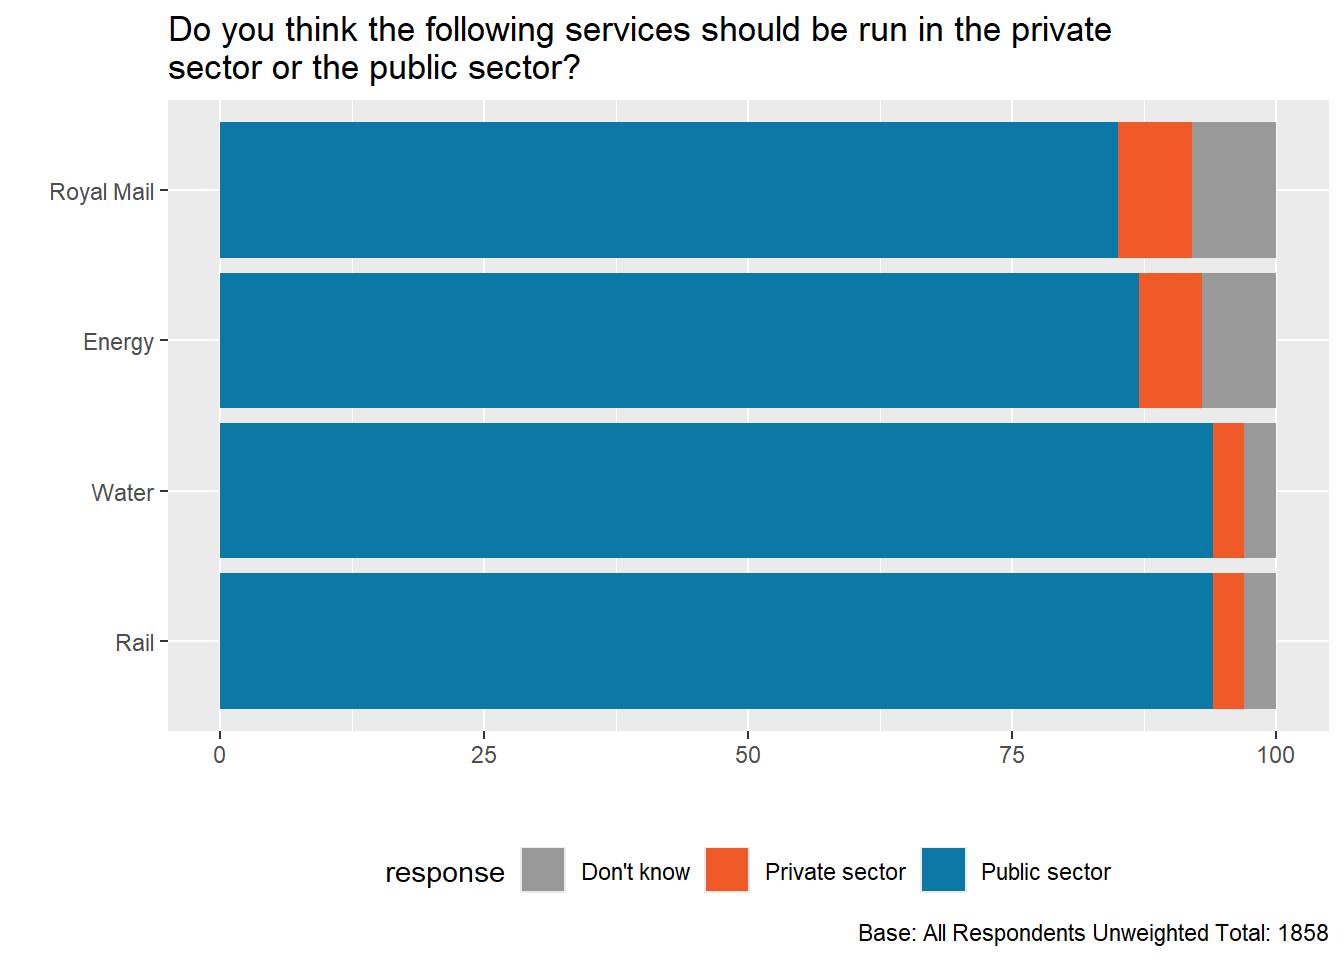
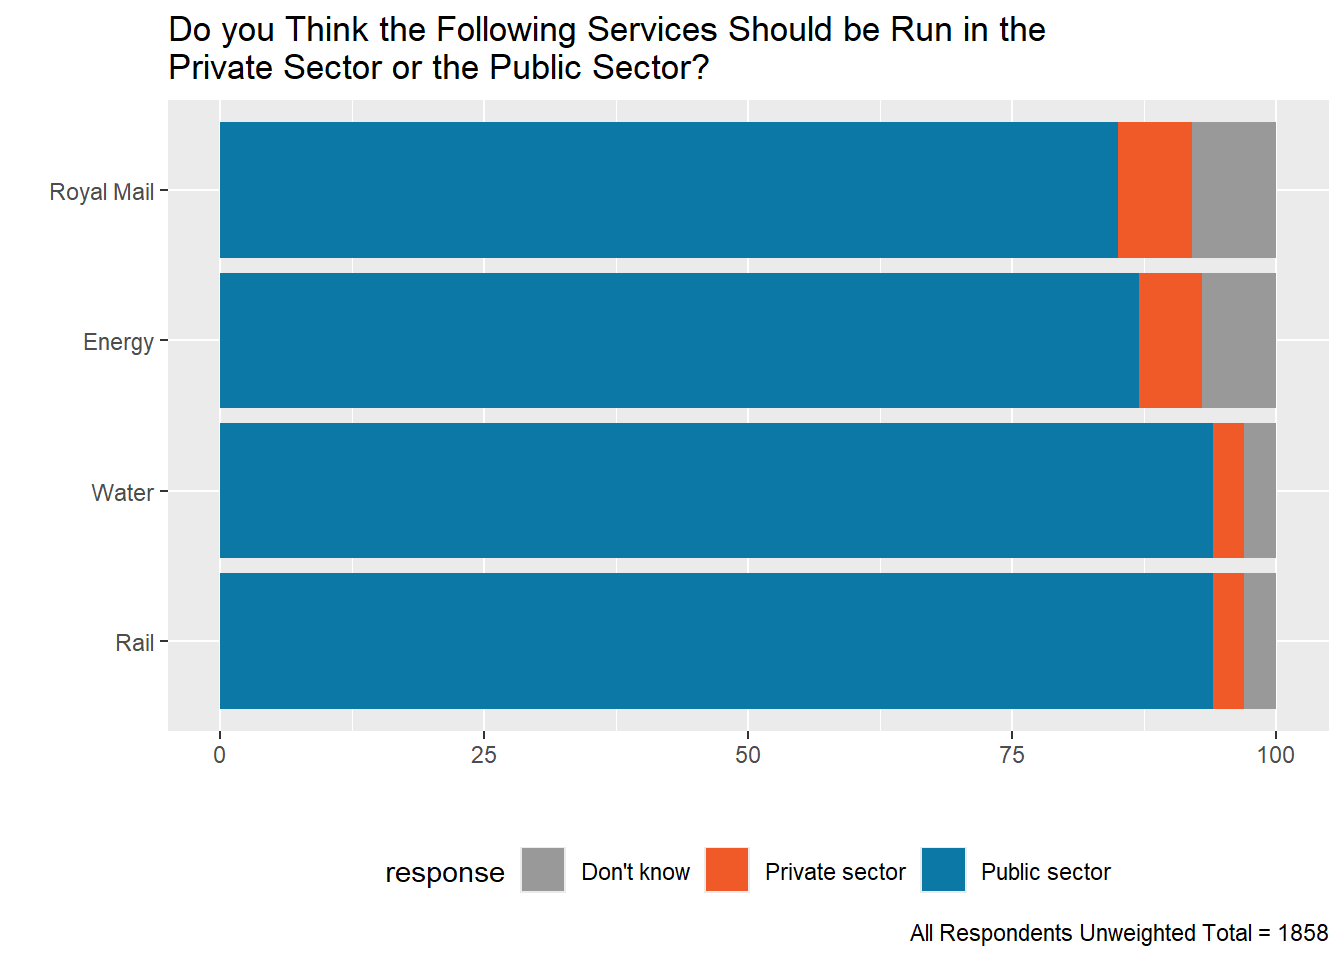
Completed Part 3

Changed region(s): [[0.125, 0.0, 0.8438, 0.0938], [0.625, 0.9375, 0.9375, 1.0]]

diff --git a/lab-4.html b/lab-4.html
@@ -293,16 +293,12 @@ Tip
 <p>How does the improved visualization look different than the original? Does it send a different message at a first glance?</p>
 <div class="cell">
 <div class="sourceCode cell-code" id="cb9"><pre class="sourceCode r code-with-copy"><code class="sourceCode r"><span id="cb9-1"><a href="#cb9-1" aria-hidden="true" tabindex="-1"></a>survation_pct <span class="sc">|&gt;</span> <span class="fu">mutate</span>(<span class="at">service =</span> <span class="fu">factor</span>(service, <span class="at">levels =</span> <span class="fu">c</span>(<span class="st">"Rail"</span>, <span class="st">"Water"</span>, <span class="st">"Energy"</span>, <span class="st">"Royal Mail"</span>))) <span class="sc">|&gt;</span> <span class="fu">ggplot</span>(<span class="fu">aes</span>(percent, service, <span class="at">fill =</span> response ))<span class="sc">+</span> <span class="fu">geom_col</span>() <span class="sc">+</span></span>
-<span id="cb9-2"><a href="#cb9-2" aria-hidden="true" tabindex="-1"></a><span class="fu">scale_fill_manual</span>(<span class="at">values =</span> <span class="fu">c</span>(<span class="st">"Public sector"</span> <span class="ot">=</span> <span class="st">"#0B78A5"</span>,</span>
-<span id="cb9-3"><a href="#cb9-3" aria-hidden="true" tabindex="-1"></a>      <span class="st">"Private sector"</span> <span class="ot">=</span> <span class="st">"#F05A28"</span>,</span>
-<span id="cb9-4"><a href="#cb9-4" aria-hidden="true" tabindex="-1"></a>      <span class="st">"Don't know"</span> <span class="ot">=</span> <span class="st">"gray60"</span>))<span class="sc">+</span></span>
-<span id="cb9-5"><a href="#cb9-5" aria-hidden="true" tabindex="-1"></a>  <span class="fu">theme</span>(</span>
-<span id="cb9-6"><a href="#cb9-6" aria-hidden="true" tabindex="-1"></a>    <span class="at">legend.position =</span> <span class="st">"bottom"</span>)<span class="sc">+</span></span>
-<span id="cb9-7"><a href="#cb9-7" aria-hidden="true" tabindex="-1"></a>  <span class="fu">labs</span>(</span>
-<span id="cb9-8"><a href="#cb9-8" aria-hidden="true" tabindex="-1"></a>    <span class="at">title =</span> <span class="st">"Do you think the following services should be run in the private</span><span class="sc">\n</span><span class="st">sector or the public sector?"</span>,</span>
-<span id="cb9-9"><a href="#cb9-9" aria-hidden="true" tabindex="-1"></a>    <span class="at">caption =</span> <span class="st">"Base: All Respondents Unweighted Total: 1858"</span>,</span>
-<span id="cb9-10"><a href="#cb9-10" aria-hidden="true" tabindex="-1"></a>  <span class="at">x =</span> <span class="st">""</span>,</span>
-<span id="cb9-11"><a href="#cb9-11" aria-hidden="true" tabindex="-1"></a>  <span class="at">y=</span> <span class="st">""</span>)</span></code><button title="Copy to Clipboard" class="code-copy-button"><i class="bi"></i></button></pre></div>
+<span id="cb9-2"><a href="#cb9-2" aria-hidden="true" tabindex="-1"></a><span class="fu">scale_fill_manual</span>(<span class="at">values =</span> <span class="fu">c</span>(<span class="st">"Public sector"</span> <span class="ot">=</span> <span class="st">"#0B78A5"</span>, <span class="st">"Private sector"</span> <span class="ot">=</span> <span class="st">"#F05A28"</span>, <span class="st">"Don't know"</span> <span class="ot">=</span> <span class="st">"gray60"</span>))<span class="sc">+</span></span>
+<span id="cb9-3"><a href="#cb9-3" aria-hidden="true" tabindex="-1"></a><span class="fu">theme</span>(<span class="at">legend.position =</span> <span class="st">"bottom"</span>)<span class="sc">+</span></span>
+<span id="cb9-4"><a href="#cb9-4" aria-hidden="true" tabindex="-1"></a><span class="fu">labs</span>(<span class="at">title =</span> <span class="st">"Do you Think the Following Services Should be Run in the </span><span class="sc">\n</span><span class="st">Private Sector or the Public Sector?"</span>,</span>
+<span id="cb9-5"><a href="#cb9-5" aria-hidden="true" tabindex="-1"></a><span class="at">caption =</span> <span class="st">"All Respondents Unweighted Total = 1858"</span>,</span>
+<span id="cb9-6"><a href="#cb9-6" aria-hidden="true" tabindex="-1"></a>  <span class="at">x =</span> <span class="st">""</span>,</span>
+<span id="cb9-7"><a href="#cb9-7" aria-hidden="true" tabindex="-1"></a>  <span class="at">y=</span> <span class="st">""</span>)</span></code><button title="Copy to Clipboard" class="code-copy-button"><i class="bi"></i></button></pre></div>
 <div class="cell-output-display">
 <div>
 <figure class="figure">
@@ -360,7 +356,8 @@ Note
 </div>
 <p>Here is a peek at the top 10 rows of the dataset:</p>
 <div class="cell">
-<div class="sourceCode cell-code" id="cb10"><pre class="sourceCode r code-with-copy"><code class="sourceCode r"><span id="cb10-1"><a href="#cb10-1" aria-hidden="true" tabindex="-1"></a>datasaurus_dozen</span></code><button title="Copy to Clipboard" class="code-copy-button"><i class="bi"></i></button></pre></div>
+<div class="sourceCode cell-code" id="cb10"><pre class="sourceCode r code-with-copy"><code class="sourceCode r"><span id="cb10-1"><a href="#cb10-1" aria-hidden="true" tabindex="-1"></a>datasaurus_dozen <span class="ot">=</span> datasaurus_dozen</span>
+<span id="cb10-2"><a href="#cb10-2" aria-hidden="true" tabindex="-1"></a>datasaurus_dozen</span></code><button title="Copy to Clipboard" class="code-copy-button"><i class="bi"></i></button></pre></div>
 <div class="cell-output cell-output-stdout">
 <pre><code># A tibble: 1,846 × 3
    dataset     x     y
@@ -394,10 +391,46 @@ Tip
 <p>There are 13 groups but <code>tibble</code>s only print out 10 rows by default. Add <code>print(n = 13)</code> as the last step of your pipeline to display all rows.</p>
 </div>
 </div>
+<div class="cell">
+<div class="sourceCode cell-code" id="cb12"><pre class="sourceCode r code-with-copy"><code class="sourceCode r"><span id="cb12-1"><a href="#cb12-1" aria-hidden="true" tabindex="-1"></a>datasaurus_dozen <span class="sc">|&gt;</span> <span class="fu">group_by</span>(dataset) <span class="sc">|&gt;</span> <span class="fu">summarise</span>(<span class="at">mean_x =</span> <span class="fu">mean</span>(x), <span class="at">mean_y =</span> <span class="fu">mean</span>(y), <span class="at">std_x =</span> <span class="fu">sd</span>(x), <span class="at">std_y =</span> <span class="fu">sd</span>(y), <span class="at">correlation =</span> <span class="fu">cor</span>(x,y)) <span class="sc">|&gt;</span> <span class="fu">print</span>(<span class="at">n =</span> <span class="dv">13</span>)</span></code><button title="Copy to Clipboard" class="code-copy-button"><i class="bi"></i></button></pre></div>
+<div class="cell-output cell-output-stdout">
+<pre><code># A tibble: 13 × 6
+   dataset    mean_x mean_y std_x std_y correlation
+   &lt;chr&gt;       &lt;dbl&gt;  &lt;dbl&gt; &lt;dbl&gt; &lt;dbl&gt;       &lt;dbl&gt;
+ 1 away         54.3   47.8  16.8  26.9     -0.0641
+ 2 bullseye     54.3   47.8  16.8  26.9     -0.0686
+ 3 circle       54.3   47.8  16.8  26.9     -0.0683
+ 4 dino         54.3   47.8  16.8  26.9     -0.0645
+ 5 dots         54.3   47.8  16.8  26.9     -0.0603
+ 6 h_lines      54.3   47.8  16.8  26.9     -0.0617
+ 7 high_lines   54.3   47.8  16.8  26.9     -0.0685
+ 8 slant_down   54.3   47.8  16.8  26.9     -0.0690
+ 9 slant_up     54.3   47.8  16.8  26.9     -0.0686
+10 star         54.3   47.8  16.8  26.9     -0.0630
+11 v_lines      54.3   47.8  16.8  26.9     -0.0694
+12 wide_lines   54.3   47.8  16.8  26.9     -0.0666
+13 x_shape      54.3   47.8  16.8  26.9     -0.0656</code></pre>
+</div>
+</div>
+<p>Across all of the summary statistics, the data sets are extremely similar between each other the means, standard deviations,9 and correlations are all within margin of error across data sets.</p>
 </section>
 <section id="question-7" class="level2">
 <h2 class="anchored" data-anchor-id="question-7">Question 7</h2>
 <p>Create a scatterplot of <code>y</code> versus <code>x</code> and color and facet it by <code>dataset</code>. Then, in 1-2 sentences, how these plots compare across groups (datasets). How does your response in this question compare to your response to the previous question and what does this say about using visualizations and summary statistics when getting to know a dataset?</p>
+<div class="cell">
+<div class="sourceCode cell-code" id="cb14"><pre class="sourceCode r code-with-copy"><code class="sourceCode r"><span id="cb14-1"><a href="#cb14-1" aria-hidden="true" tabindex="-1"></a>datasaurus_dozen <span class="sc">|&gt;</span> </span>
+<span id="cb14-2"><a href="#cb14-2" aria-hidden="true" tabindex="-1"></a>  <span class="fu">ggplot</span>(<span class="fu">aes</span>(x,y, <span class="at">color =</span> dataset)) <span class="sc">+</span></span>
+<span id="cb14-3"><a href="#cb14-3" aria-hidden="true" tabindex="-1"></a>  <span class="fu">geom_point</span>(<span class="at">show.legend =</span> <span class="cn">FALSE</span>)<span class="sc">+</span></span>
+<span id="cb14-4"><a href="#cb14-4" aria-hidden="true" tabindex="-1"></a>  <span class="fu">facet_wrap</span>(<span class="sc">~</span>dataset)</span></code><button title="Copy to Clipboard" class="code-copy-button"><i class="bi"></i></button></pre></div>
+<div class="cell-output-display">
+<div>
+<figure class="figure">
+<p><img src="lab-4_files/figure-html/unnamed-chunk-9-1.png" class="img-fluid figure-img" width="672"></p>
+</figure>
+</div>
+</div>
+</div>
+<p>Though all the data sets have very similar summary statistics, they are clearly completely different and the distribution of the data is not very similar at all. It highlights how looking at summary statistics can be misleading and why investigating data further is necessary.</p>
 <div class="callout callout-style-default callout-tip callout-titled">
 <div class="callout-header d-flex align-content-center">
 <div class="callout-icon-container">
